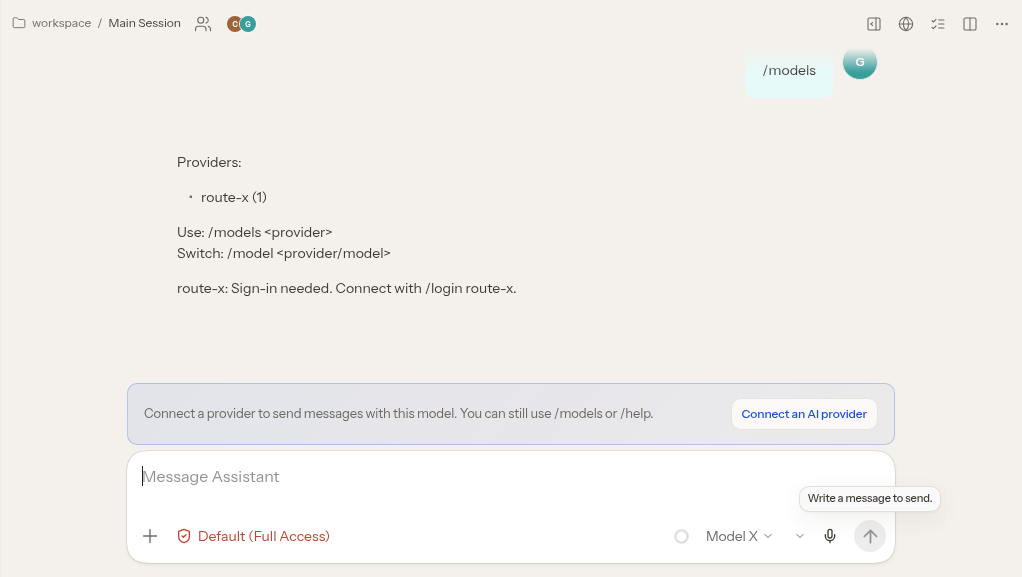
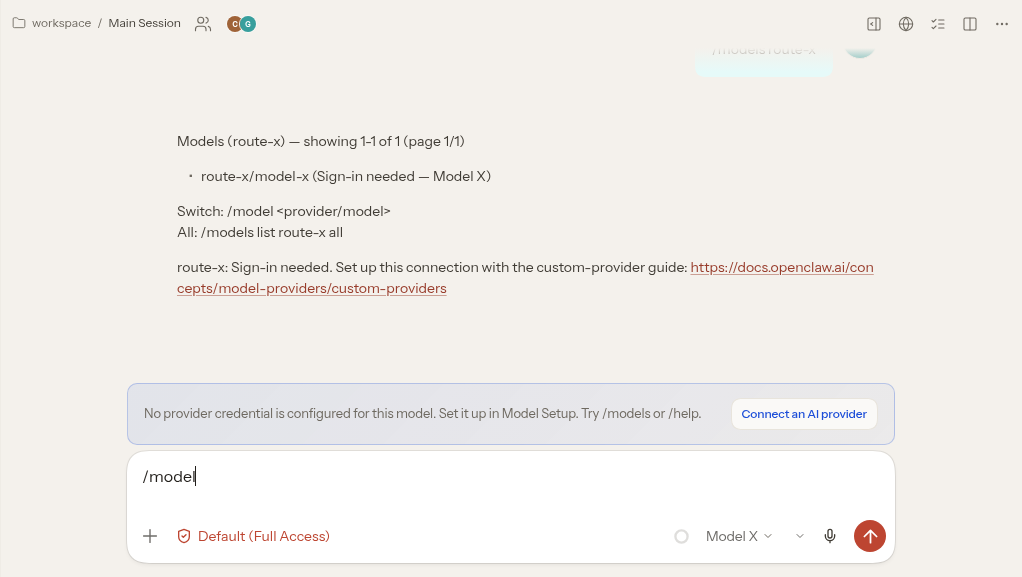
docs: update chat command proof capture

diff --git a/README.md b/README.md
@@ -4,9 +4,11 @@ These screenshots show the real web interface against isolated test Gateways.
 The sidebar is cropped, and provider/model names are synthetic fixture labels.
 
 - Before: `f32dcfefe6e013dafd660845d008f1cf6b158170`.
-- After: `981050e982410cac1c3e440272b671dbd8ee2dfe`.
-- Final change: `2a4d66c4170717ca6d7c30bede2d85c360b11f05` adds a connection action for unknown readiness. The depicted routing and missing-credential behavior is unchanged.
+- Routing after: `981050e982410cac1c3e440272b671dbd8ee2dfe`.
+- Commands after: `6956cd7e53f2e53bf852c2da2bb77919c2f78a15`.
 
-`routing-before.png` shows the first reply changing to Model Y after New session displayed Model X. `routing-after.png` keeps Model X.
+`routing-before.png` shows the first reply changing to Model Y after New session displayed Model X. `routing-after.png` keeps Model X. Later corrections do not change session creation or reply selection.
 
-`commands-before.png` shows a disabled composer despite a model-free command being available through the API. `commands-after.png` shows the command working from the composer and a direct connection action.
+`commands-before.png` shows a disabled composer despite a model-free command being available through the API. `commands-after.png` shows supported custom-connection guidance, an editable `/model` command with Send enabled, and a direct connection action. Independent browser checks also exercised Send, Enter, menu selection, clear, export initiation, blocked ordinary messages, and a cached picker while its catalog request had no response.
+
+No successful real-provider login or live catalog refresh is claimed by these captures.
